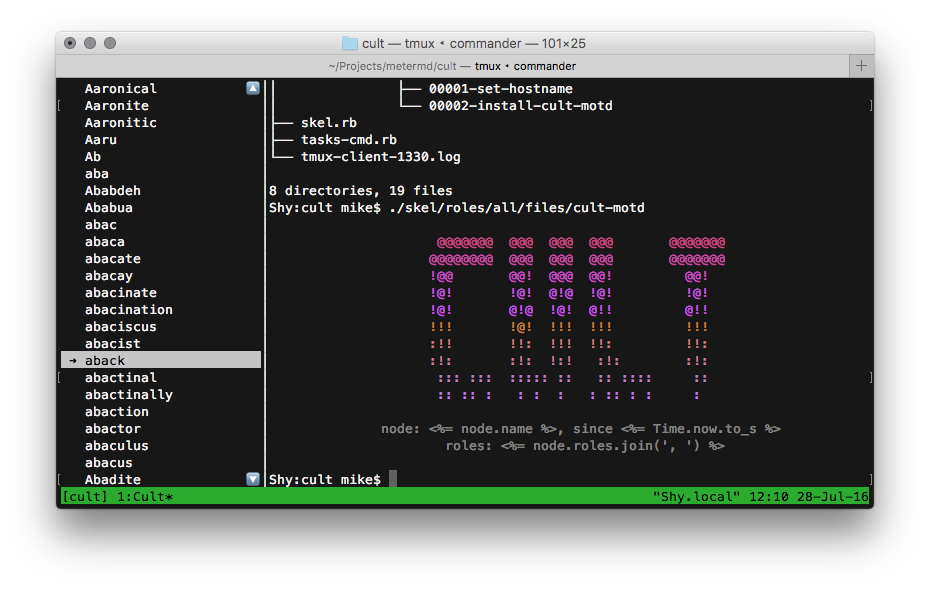
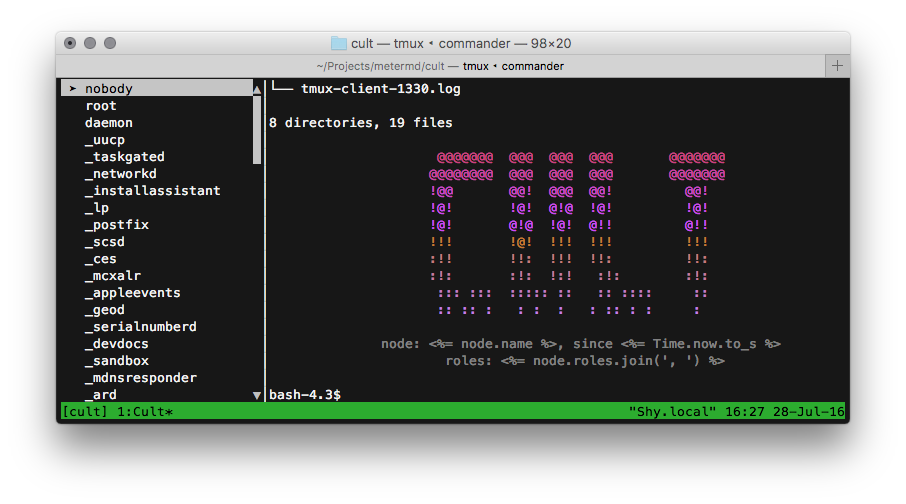
Added scrollbar

Changed region(s): [[0.0618, 0.0595, 0.9581, 0.8929], [0.9272, 0.625, 0.9581, 0.6548]]

diff --git a/README.md b/README.md
@@ -7,7 +7,7 @@ interactive, and writes events to `stdout` as the user interacts with it.
 
 *listpager is in the left-hand panel*
 
-listpager has emoji scroll indications, and can handle lists of any length.  It
+listpager has proportional scroll bars, and can handle lists of any length.  It
 handles terminal resizing just fine.
 
 listpager was written as a component of [Cult][1], a fleet management tool.  Cult's
@@ -45,7 +45,7 @@ be more functional, I'd like to add a few features:
 
   * `listpager -1`, for displaying a list and just outputting the one item the
     user selected with enter, ala Zenity/dialog.
-  * Real, proportional scroll bars
+  * ~~Real, proportional scroll bars~~
   * A search/filter activated with the `/` key
   * Maybe a title, but I'm not trying to turn it into `dialog`
   * Mouse support, with scroll wheels.
